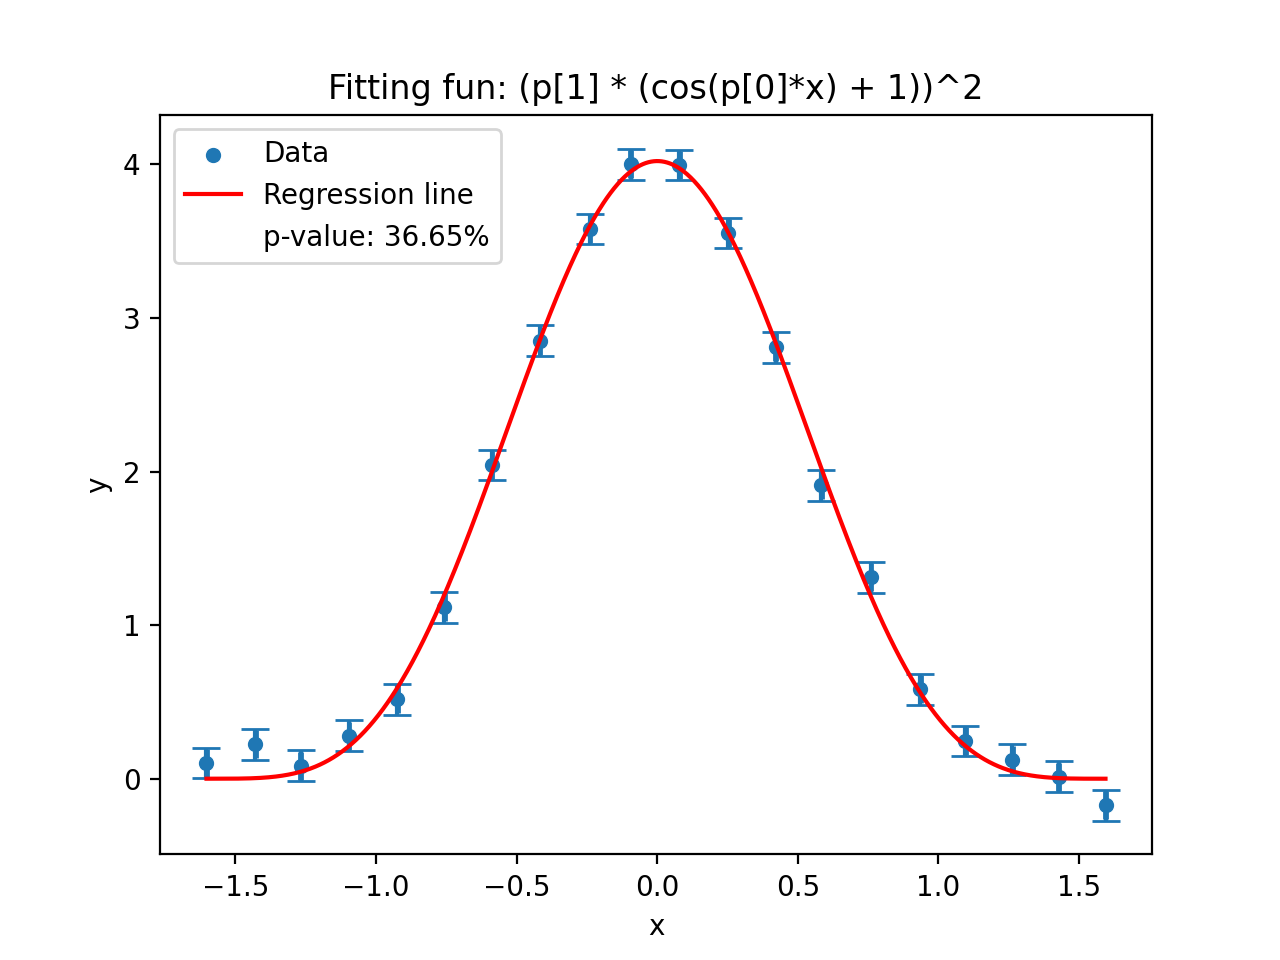
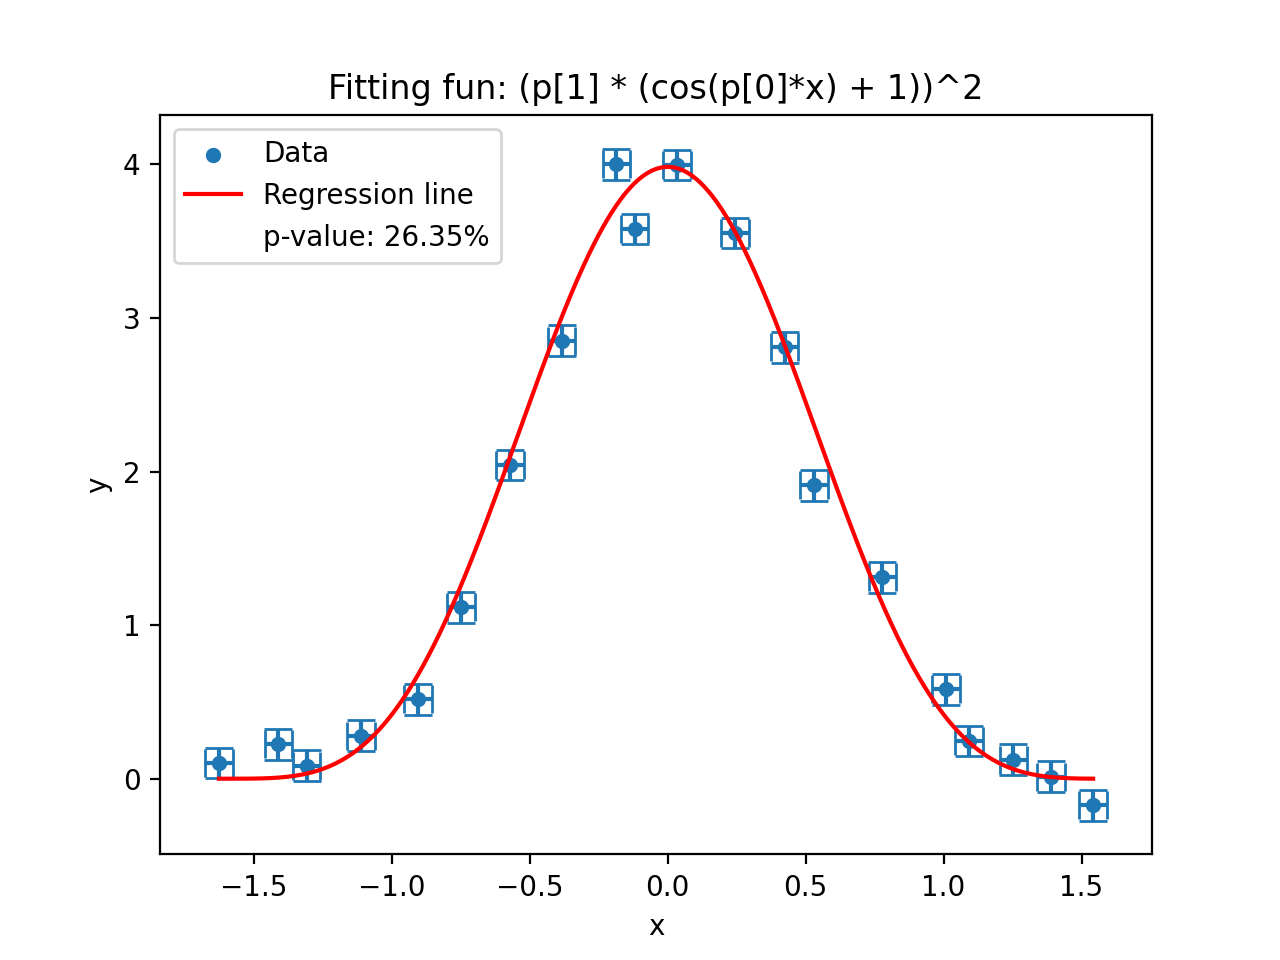
edit on plots

diff --git a/data_generator.py b/data_generator.py
@@ -71,7 +71,7 @@ if __name__ == "__main__":
     period = 3.2
     power = 2
     trig = Random_Gen(Trig_fun(power = power, k = 2 * math.pi / period))
-    trig.set_xerror(min = 0.005, max = 0.005)
+    trig.set_xerror(min = 0.05, max = 0.05)
     trig.set_yerror(min = 0.1, max = 0.1)
     trig(size = 20, x_min = - period / 2, x_max = period / 2)
     trig.SaveToCsv("trig_data.csv")

diff --git a/data_fitting.py b/data_fitting.py
@@ -41,7 +41,7 @@ class ODR_fitter:
     def print(self):
         print("===============fitting result:=================")
         self.res.pprint()
-        print("p-value: %.2f%%" % self.p_value)
+        print("p-value: %.2f%%" % (100 * self.p_value))
         print("===============================================")
 
 if __name__ == "__main__":

diff --git a/README.md b/README.md
@@ -230,4 +230,4 @@ Following two plots show another example of fitting parameters using the data ge
   <img src="trig_fitting.png" width="500" />
   <img src="trig_fitting_quadratic.png" width="500" /> 
 </p>
-The plot on the left side, using the correct fitting function, obtains a p-value of 36.65%. On the other hand, if the fitting function is incorrectly chosen, as is shown in the plot at the right side, the resulting p-value is very small (< 5%).
+The plot on the left side, using the correct fitting function, obtains a p-value of 26.35%. On the other hand, if the fitting function is incorrectly chosen, as is shown in the plot at the right side, the resulting p-value is very small (< 5%).
